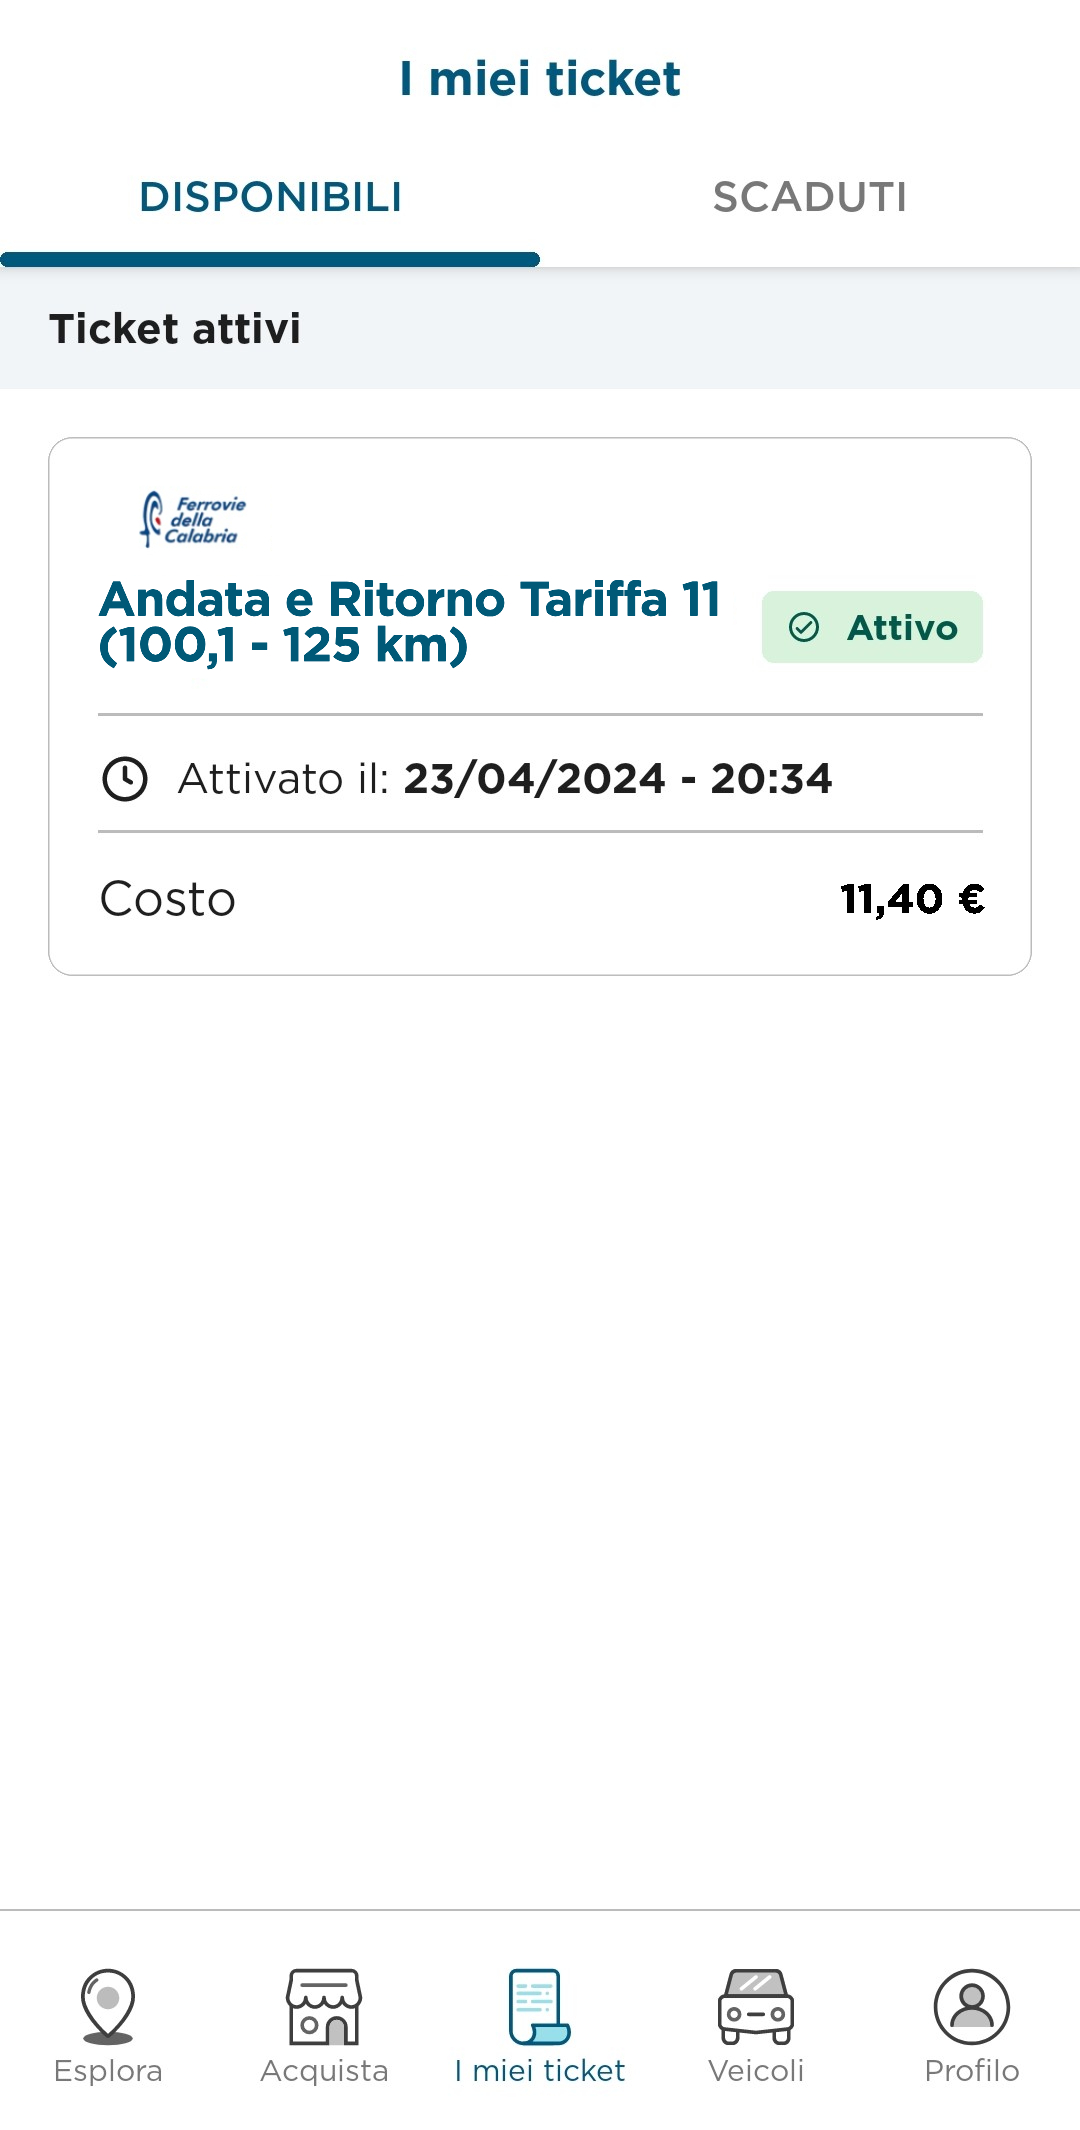
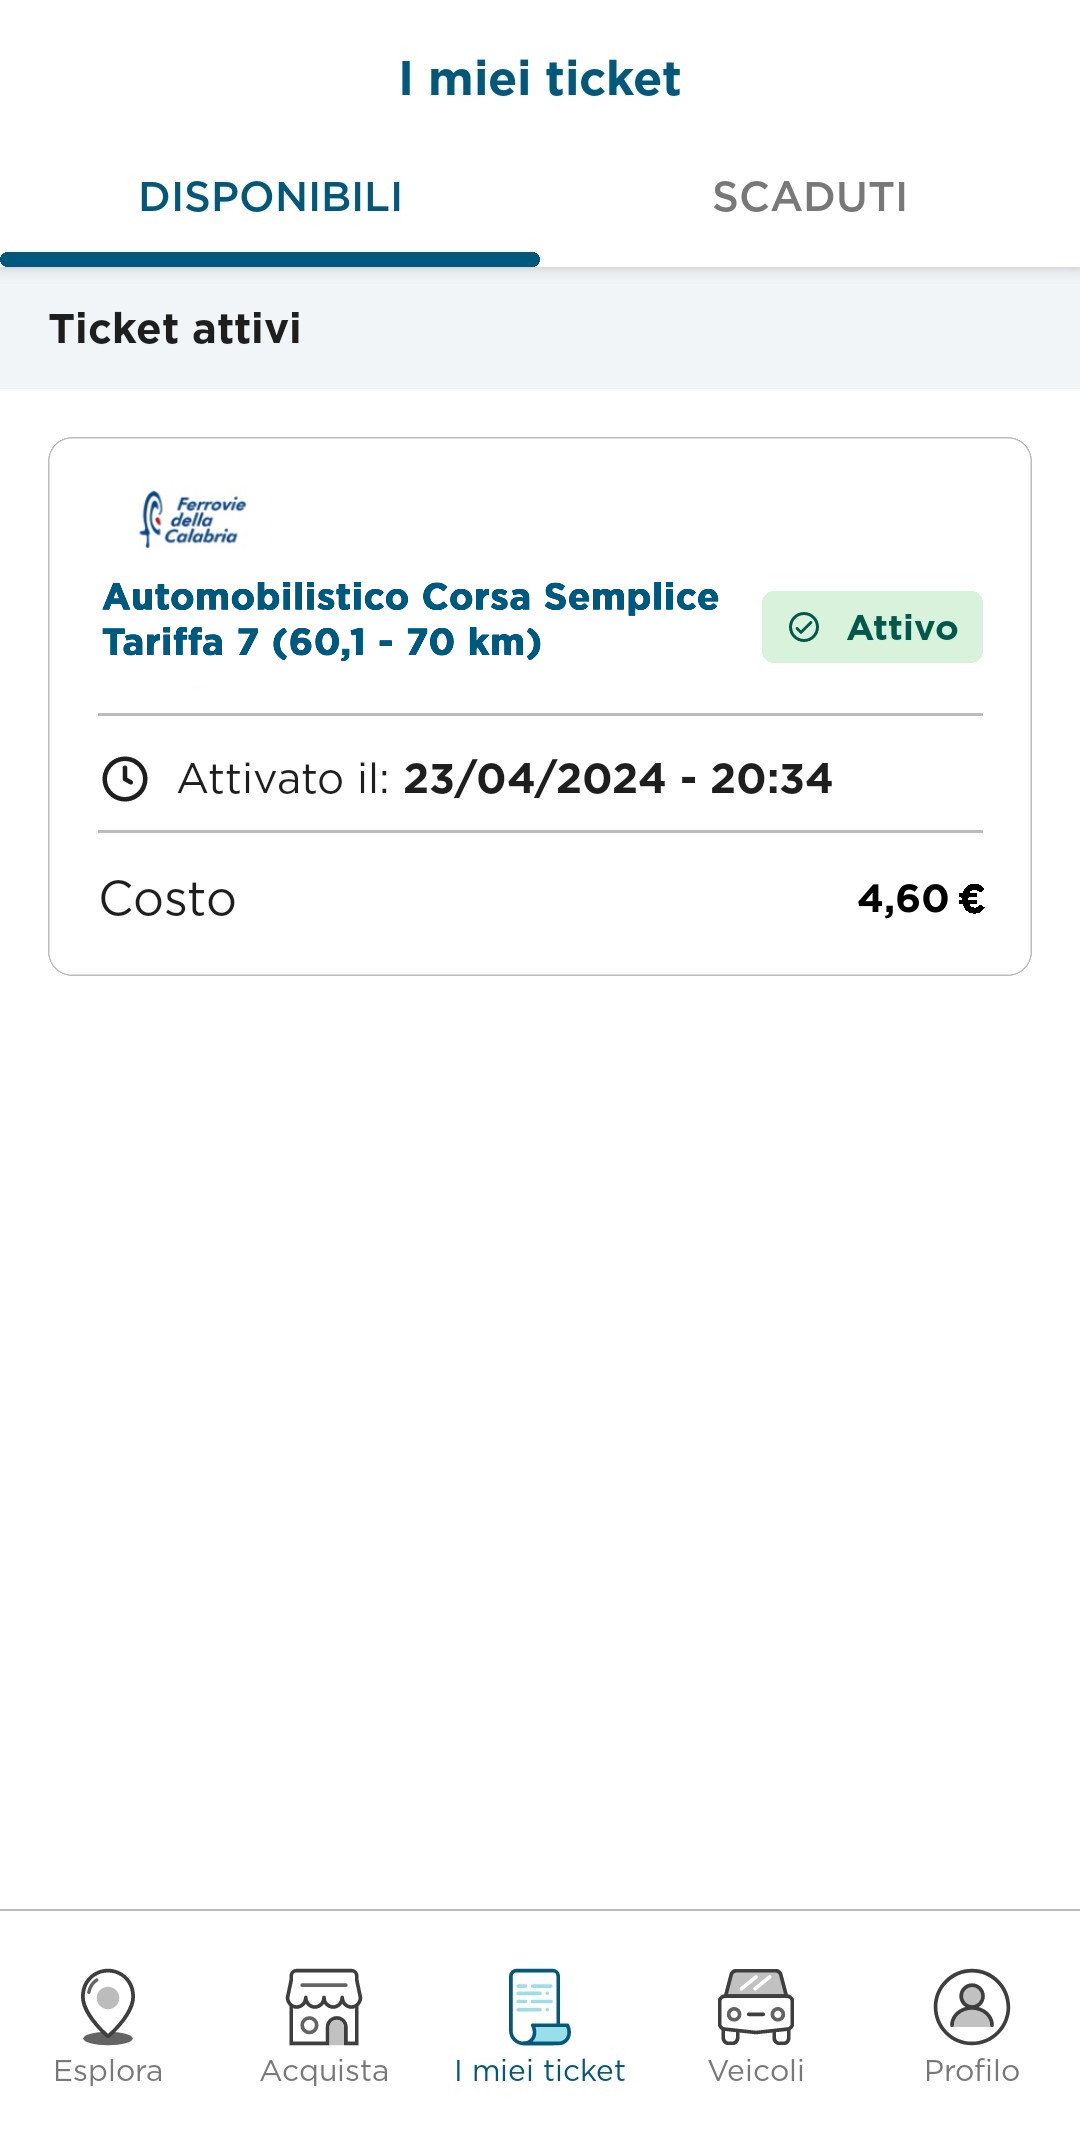
v2

Changed region(s): [[0.0917, 0.2479, 0.6722, 0.3099], [0.7639, 0.4028, 0.8861, 0.4338]]

diff --git a/index.html b/index.html
@@ -75,10 +75,10 @@
 						<!-- Ticket description -->
 						<div class="ticket-text">
 							<div class="ticket-title">
-								Andata e Ritorno Tariffa 11 (100,1 - 125 km)
+								Automolistico Corsa Semplice Tariffa 7 (60,1 - 70 km)
 							</div>
 							<div class="ticket-description">
-								Il titolo da diritto ad effettuare due viaggi di corsa semplice
+								Il titolo da diritto ad effettuare un viaggio di corsa semplice
 							</div>
 						</div>
 						<!-- QR Code section container -->
